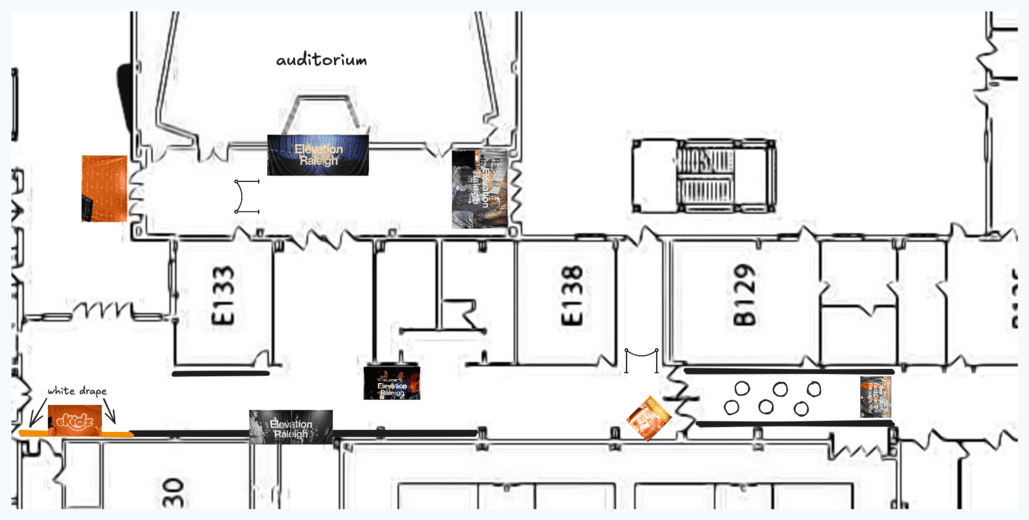
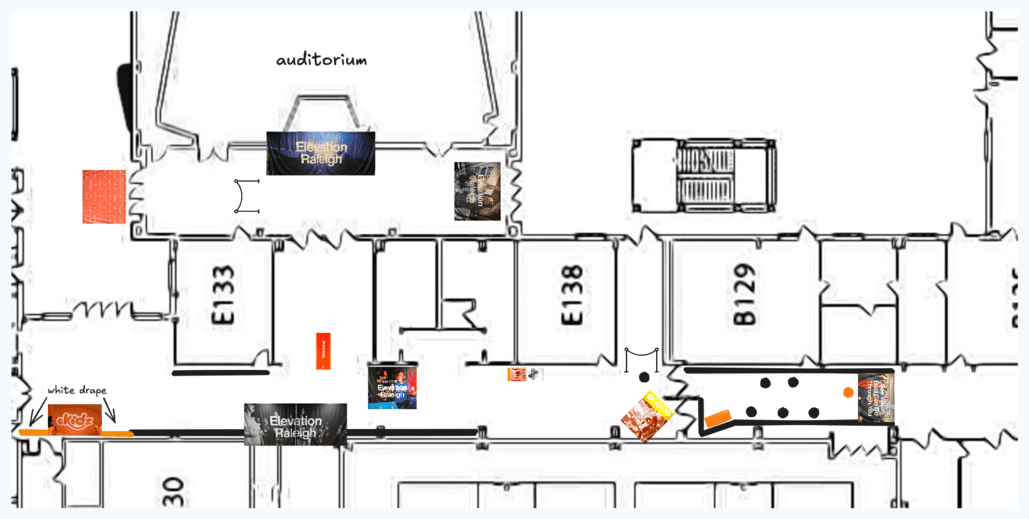
e101 update
I updated the /e101 with images from the e101 setup from today. I also updated the diagram. An e101 tab and e101 diagram are also on the main page since we have another e101 connect weekend next week

diff --git a/e101/index.html b/e101/index.html
@@ -8,7 +8,7 @@
 </head>
 <body>
     <header>
-        <h1>GE e101 SETUP</h1>
+        <h1>E101 SETUP</h1>
     </header>
     <main>
         <section class="section">
@@ -21,61 +21,28 @@
 
         <section class="section">
             <div class="tabs">
-                <button class="tab-button active" data-tab="courtyard">Courtyard</button>
-                <button class="tab-button" data-tab="hallway">Hallways</button>
+                <button class="tab-button active" data-tab="e101">e101</button>
             </div>
-            <div class="tab-content active" id="courtyard">
+            <div class="tab-content active" id="e101">
                 <div class="images">
-                    <img src="../images/courtyard.png" alt="Courtyard Entrance">
-                    <p class="name">COURTYARD ENTRANCE</p>
-                    <p class="description">Entrance of the courtyard from the parking lot</p>
+                    <img src="../images/e101-room-1.png">
+                    <p class="name">E101 ROOM</p>
+                    <p class="description">Picture of the set up room from the front.</p>
                 </div>
                 <div class="images">
-                    <img src="../images/connections-tent-1.png" alt="Connections Tent #1">
-                    <p class="name">CONNECTIONS TENT #1</p>
-                    <p class="description">Connections tent plus banner closest to the parking lot</p>
+                    <img src="../images/e101-room-1.png">
+                    <p class="name">E101 ROOM</p>
+                    <p class="description">Picture of the set up room from the back.</p>
                 </div>
                 <div class="images">
-                    <img src="../images/connections-tent-2.png" alt="Connections Tent #2">
-                    <p class="name">CONNECTIONS TENT #2</p>
-                    <p class="description">Connections tent plus banner closest to the front door</p>
+                    <img src="../images/e101-hallway.png">
+                    <p class="name">HALLWAY</p>
+                    <p class="description">e101 signage in the hallway leading up to the e101 room.</p>
                 </div>
                 <div class="images">
-                    <img src="../images/breezeway-banner.png" alt="Raleigh Skyline Banner">
-                    <p class="name">RALEIGH SKYLINE BANNER</p>
-                    <p class="description">Goes in between pillars under the breezeway</p>
-                </div>
-                <div class="images">
-                    <img src="../images/front-entrance.png" alt="Front Entrance">
-                    <p class="name">FRONT ENTRANCE</p>
-                    <p class="description">The banner, A-Frame, and tension banner that goes outside the front door</p>
-                </div>
-            </div>
-            <div class="tab-content" id="hallway">
-                <div class="images">
-                    <img src="../images/main-hall-1.png">
-                    <p class="name">MAIN HALLWAY</p>
-                    <p class="description">Main hallway looking down towards eKidz.</p>
-                </div>
-                <div class="images">
-                    <img src="../images/bathrooms-hall.png">
-                    <p class="name">BATHROOM HALLWAY</p>
-                    <p class="description">Main hallway looking toward the bathrooms.</p>
-                </div>
-                <div class="images">
-                    <img src="../images/aud-hall-1.png">
-                    <p class="name">AUDITORIUM HALLWAY</p>
-                    <p class="description">Two piece Raleigh banner that guests see as they come down thru the marble hallway. Always use carpeted bases!</p>
-                </div>
-                <div class="images">
-                    <img src="../images/aud-hall-2.png">
-                    <p class="name">AUDITORIUM ENTRANCE</p>
-                    <p class="description">Elevation Raleigh banner outside the auditorium doors. Always use carpeted bases!</p>
-                </div>
-                <div class="images">
-                    <img src="../images/ekidz.png">
-                    <p class="name">eKIDZ CHECK-IN</p>
-                    <p class="description">Drapes and banner used in the eKidz entrance area.</p>
+                    <img src="../images/e101-courtyard.png">
+                    <p class="name">COURTYARD</p>
+                    <p class="description">All the A-Frames we put in the courtyard for e101 weekend.</p>
                 </div>
             </div>
         </section>

diff --git a/index.html b/index.html
@@ -14,6 +14,7 @@
         <section class="section">
             <div class="images">
                 <img src="images/diagram-e101.png" alt="Pipe & Drape Diagram">
+                <!-- <img src="images/diagram-main.png" alt="Pipe & Drape Diagram"> -->
                 <p class="name">PIPE & DRAPE DIAGRAM</p>
                 <p class="description">A diagram showing all the pipe and drape we set up. Use the tabs below to view example images of each area.</p>
             </div>
@@ -23,7 +24,9 @@
             <div class="tabs">
                 <button class="tab-button active" data-tab="courtyard">Courtyard</button>
                 <button class="tab-button" data-tab="hallway">Hallways</button>
+                <button class="tab-button" data-tab="e101">e101</button>
             </div>
+
             <div class="tab-content active" id="courtyard">
                 <div class="images">
                     <img src="images/courtyard.png" alt="Courtyard Entrance">
@@ -51,6 +54,7 @@
                     <p class="description">The banner, A-Frame, and tension banner that goes outside the front door</p>
                 </div>
             </div>
+
             <div class="tab-content" id="hallway">
                 <div class="images">
                     <img src="images/main-hall-1.png">
@@ -76,6 +80,29 @@
                     <img src="images/ekidz.png">
                     <p class="name">eKIDZ CHECK-IN</p>
                     <p class="description">Drapes and banner used in the eKidz entrance area.</p>
+                </div>
+            </div>
+
+            <div class="tab-content" id="e101">
+                <div class="images">
+                    <img src="images/e101-room-1.png">
+                    <p class="name">E101 ROOM</p>
+                    <p class="description">Picture of the set up room from the front.</p>
+                </div>
+                <div class="images">
+                    <img src="images/e101-room-1.png">
+                    <p class="name">E101 ROOM</p>
+                    <p class="description">Picture of the set up room from the back.</p>
+                </div>
+                <div class="images">
+                    <img src="images/e101-hallway.png">
+                    <p class="name">HALLWAY</p>
+                    <p class="description">e101 signage in the hallway leading up to the e101 room.</p>
+                </div>
+                <div class="images">
+                    <img src="images/e101-courtyard.png">
+                    <p class="name">COURTYARD</p>
+                    <p class="description">All the a-frames we put in the courtyard for e101 weekend.</p>
                 </div>
             </div>
         </section>
